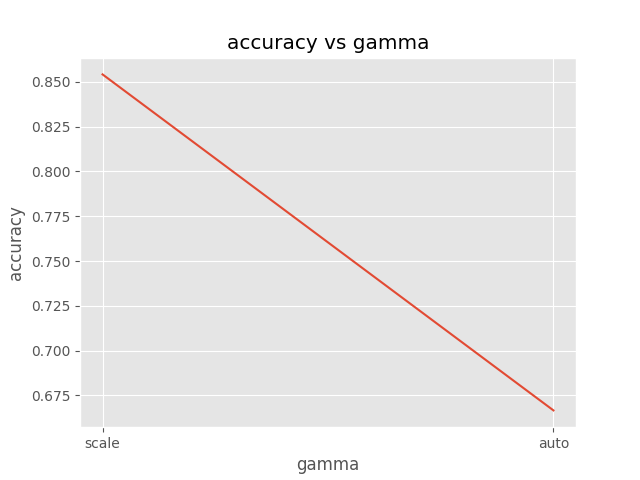
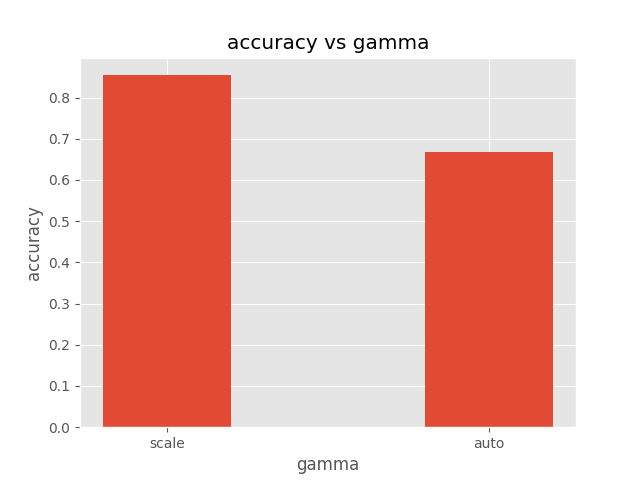
added code for PCA and screenshots of plots

diff --git a/LAB3/PCA.py b/LAB3/PCA.py
@@ -1,0 +1,79 @@
+try:
+    from cProfile import label
+    import numpy as np
+    import time
+    import graphviz
+    import pandas as pd
+    import matplotlib.pyplot as plt
+    from sklearn.metrics import accuracy_score
+    from sklearn.model_selection import GridSearchCV
+    from sklearn.ensemble import RandomForestClassifier
+    import os
+except:
+    print("Something went wrong")
+
+#----------2----------
+X = np.transpose(np.array([[2.5, 0.5, 2.2, 1.9, 3.1, 2.3, 2, 1, 1.5, 1.1],
+                           [2.4, 0.7, 2.9, 2.2, 3, 2.7, 1.6, 1.1, 1.6, 0.9]]))
+
+#----------5----------
+mean = X.mean(axis=0)
+X = X - mean
+
+#----------4---------
+plt.figure(figsize=(5,5))
+plt.scatter(X[:, 0], X[:,1])
+#plt.show()
+plt.axvline()
+plt.axhline()
+#plt.show()
+
+
+#----------6----------
+cov = np.cov(X.T)
+print("Covariance matrix:", cov)
+
+#----------7-----------
+[W, V] = np.linalg.eig(cov)
+print("Eigenvalues:", W)
+print("Eigenvectors:", V)
+
+#----------9-----------
+plt.quiver(V[0, 0], V[1, 0], color=['r'], scale=5)
+plt.quiver(V[0, 1], V[1, 1], color=['b'], scale=5)
+plt.show()
+
+#----------10-----------
+u = V[:, 1]
+z = V[:, 0]
+ 
+u = np.expand_dims(u, 1)
+z = np.expand_dims(z, 1)
+
+#----------11----------
+#Y1 = np.cross(X, u)
+Y = X@u@u.T
+
+
+#----------12----------
+meanY = np.mean(Y, axis=0)
+Y = Y - meanY
+
+plt.figure(figsize=(5,5))
+plt.scatter(Y[:, 0], Y[:,1])
+plt.axvline()
+plt.axhline()
+plt.quiver(V[0, 1], V[1, 1], color=['b'], scale=5)
+plt.show()
+
+#-----------13---------
+Z = X@z@z.T
+meanZ = np.mean(Z, axis=0)
+Z = Z - meanZ
+
+plt.figure(figsize=(5,5))
+plt.scatter(Z[:, 0], Z[:,1])
+plt.axvline()
+plt.axhline()
+plt.quiver(V[0, 0], V[1, 0], color=['r'], scale=5)
+plt.show()

diff --git a/LAB2/svm.py b/LAB2/svm.py
@@ -157,7 +157,7 @@ if __name__ == "__main__":
             plt.show()
 
     x_gamma = ['scale', 'auto']
-    plt.plot(x_gamma,ACC)
+    plt.bar(x_gamma, ACC, width = 0.4)
     plt.xlabel("gamma")
     plt.ylabel("accuracy")
     plt.title("accuracy vs gamma")
@@ -192,7 +192,7 @@ if __name__ == "__main__":
             plt.show()
 
     x_kernels = ['linear', 'poly', 'rbf', 'sigmoid']
-    plt.plot(x_kernels, ACC)
+    plt.bar(x_kernels, ACC, width = 0.4)
     plt.xlabel("kernel")
     plt.ylabel("accuracy")
     plt.title("accuracy vs kernel")
